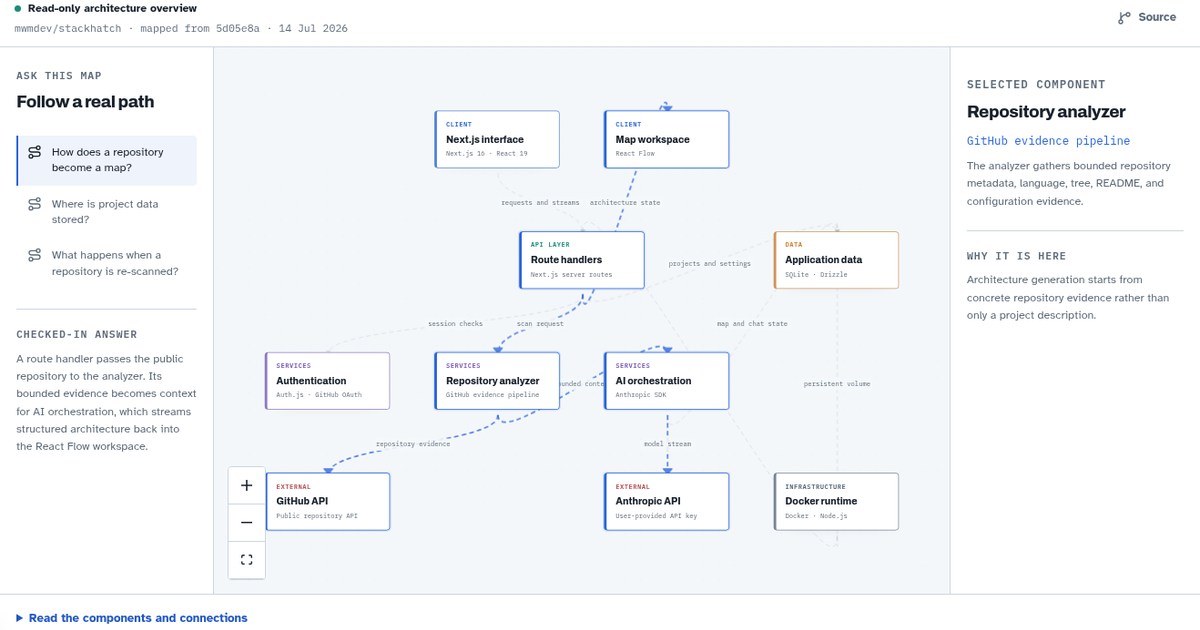
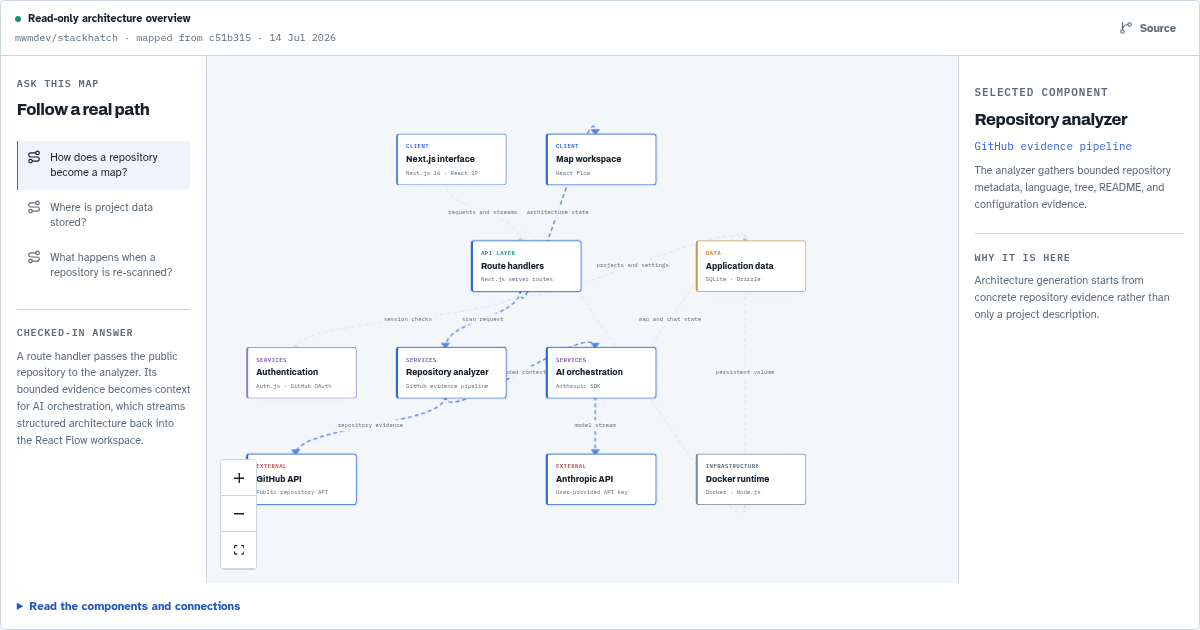
Refresh self-map provenance

diff --git a/src/content/stackhatch-demo.ts b/src/content/stackhatch-demo.ts
@@ -37,7 +37,7 @@ export interface DemoAlternative {
 export const STACKHATCH_DEMO = {
   repository: "mwmdev/stackhatch",
   sourceUrl: "https://github.com/mwmdev/stackhatch",
-  sourceCommit: "5d05e8a",
+  sourceCommit: "c51b315",
   mappedAt: "2026-07-14",
   nodes: [
     {